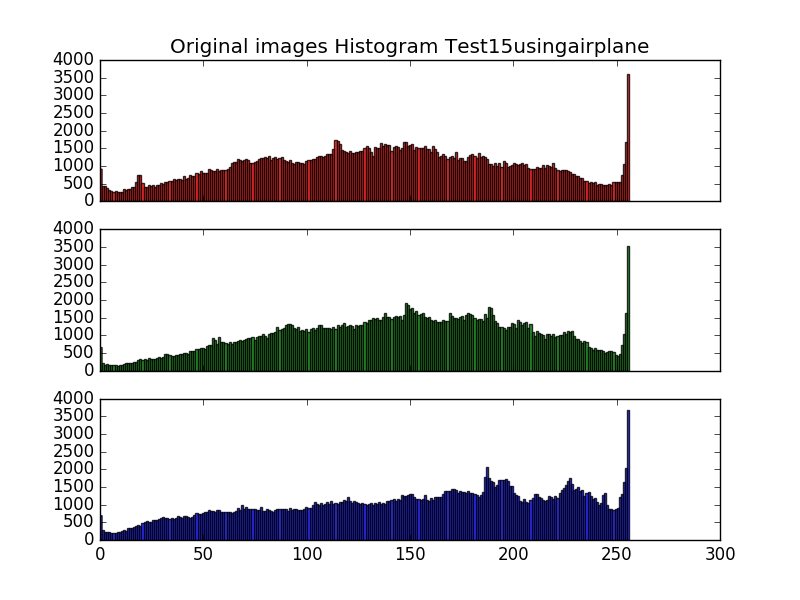
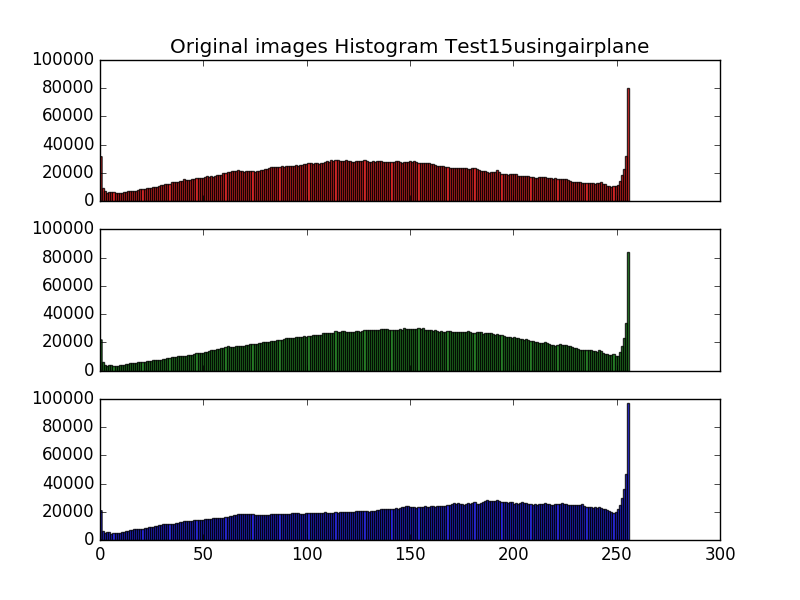
Fixed the code to run test 15 with every class

diff --git a/DCGAN-Colorizing/DCGAN_ColorizingNet_Cifar10.py b/DCGAN-Colorizing/DCGAN_ColorizingNet_Cifar10.py
@@ -38,8 +38,8 @@ numpy.random.seed(SEED)
 
 # Training Options
 BATCH_SIZE = 256
-EPOCH = 50
-nImages = pow(2,15)
+EPOCH = 1
+nImages = BATCH_SIZE#pow(2,15)
 
 #### CIFAR10 classifications
 cifar10_Classes = ['airplane','automobile','bird','cat','deer','dog','frog','horse','ship','truck'];
@@ -47,9 +47,9 @@ cifar10_Classes = ['airplane','automobile','bird','cat','deer','dog','frog','hor
 
 # Model Options
 folder = "Test15"
-outDir = 'results/'+folder
+outDire = 'results/'+folder
 
-
+d_predict_fake = 0
 
 ########################
 #FUNCTIONS
@@ -102,19 +102,20 @@ def plotGraph (filename, vecTrain, vecTest, nameVec):
 	plt.clf()
 
 class Logger(object):
-    def __init__(self):
-        self.terminal = sys.stdout
-        self.log = open(outDir+"/logfile.log", "a")
+	def __init__(self):
+		self.terminal = sys.stdout
+		self.log = open(outDir+"/logfile.log", "a")
 
-    def write(self, message):
-        self.terminal.write(message)
-        self.log.write(message)
+	def write(self, message):
+		self.terminal.write(message)
+		self.log.write(message)
 
-    def flush(self):
+
+	def flush(self):
         #this flush method is needed for python 3 compatibility.
         #this handles the flush command by doing nothing.
         #you might want to specify some extra behavior here.
-        pass
+		pass
 
 def save3images(inp,out,original,folder):
 	for i in range(math.floor(original.shape[0]*0.02)):
@@ -139,7 +140,7 @@ def save3images(inp,out,original,folder):
 
 		plt.savefig(outDir+'/samples/epoch'+str(folder)+'/sample_%s.png'%i)
 		plt.clf()
-def plotHistogram(originalImage,fakeImage, nameClass,directory = outDir,folder=folder):
+def plotHistogram(originalImage,fakeImage, nameClass,directory,folder=folder):
 	# Faz 3 histogramas, um para azul outro verde e outro vermelho
 	name = folder+'using'+nameClass
 	originalImage *= 255
@@ -158,58 +159,47 @@ def plotHistogram(originalImage,fakeImage, nameClass,directory = outDir,folder=f
 			originalGreen2D = numpy.vstack([originalGreen2D,originalImage[i,1,:,:]])
 			originalBlue2D = numpy.vstack([originalBlue2D,originalImage[i,2,:,:]])
 
-	#originalRed = originalImage[:,0,:,:].reshape(originalImage.shape[0],originalImage.shape[2],originalImage.shape[3])
-	#originalRed = numpy.array(originalRed)
-	#originalRed2D = numpy.transpose(originalRed,(0,2,1).reshape(originalImage.shape[0]*originalImage.shape[3],originalImage.shape[2]))
-	#originalGreen = originalImage[:,1,:,:].reshape(originalImage.shape[0],originalImage.shape[2],originalImage.shape[3])
-	#originalGreen = numpy.array(originalGreen)
-	#originalGreen2D = numpy.transpose(originalGreen,(0,2,1).reshape(originalImage.shape[0]*originalImage.shape[3],originalImage.shape[2]))
-	#originalBlue = originalImage[:,2,:,:].reshape(originalImage.shape[0],originalImage.shape[2],originalImage.shape[3])
-	#originalBlue2D = numpy.transpose(originalBlue,(0,2,1).reshape(originalImage.shape[0]*originalImage.shape[3],originalImage.shape[2]))
-
 	fO, (ax1,ax2,ax3) = plt.subplots(3, sharex=True,sharey=True)
-	ax1.hist(originalRed2D.ravel(), color='red', bins = numBins,alpha=0.8, range=(0,256))
+	ax1.hist(originalRed2D.ravel(), color='red', bins=numBins,alpha=0.8, align='mid')
 	ax1.set_title('Original images Histogram '+name)
-	ax2.hist(originalGreen2D.ravel(),color='green', bins = numBins,alpha=0.8, range=(0,256))
-	ax3.hist(originalBlue2D.ravel(),color='blue', bins = numBins,alpha=0.8, range=(0,256))
-	plt.savefig(directory+'/OriginalHist.png')
+	ax2.hist(originalGreen2D.ravel(),color='green', bins=numBins,alpha=0.8, align='mid')
+	ax3.hist(originalBlue2D.ravel(),color='blue', bins=numBins,alpha=0.8,  align='mid')
+	plt.xlim(0,256)
+	plt.savefig(directory+'/histOriginal.png')
 	plt.clf()
 
 
-	for i in range(fakeImage.shape[0]):
-		if i == 0:
-			generatedRed2D = numpy.array(fakeImage[i,0,:,:])
-			generatedGreen2D = numpy.array(fakeImage[i,1,:,:])
-			generatedBlue2D = numpy.array(fakeImage[i,2,:,:])
+	for j in range(fakeImage.shape[0]):
+		if j == 0:
+			generatedRed2D = numpy.array(fakeImage[j,0,:,:])
+			generatedGreen2D = numpy.array(fakeImage[j,1,:,:])
+			generatedBlue2D = numpy.array(fakeImage[j,2,:,:])
 		else:
-			generatedRed2D = numpy.vstack([generatedRed2D,fakeImage[i,0,:,:]])
-			generatedGreen2D = numpy.vstack([generatedGreen2D,fakeImage[i,1,:,:]])
-			generatedBlue2D = numpy.vstack([generatedBlue2D,fakeImage[i,2,:,:]])
-	#generatedRed = fakeImage[:,0,:,:].reshape(fakeImage.shape[0],fakeImage.shape[2],fakeImage.shape[3])
-	#generatedRed2D = numpy.transpose(generatedRed,(0,2,1).reshape(fakeImage.shape[0]*fakeImage.shape[3],fakeImage.shape[2]))
-	#generatedGreen = fakeImage[:,1,:,:].reshape(fakeImage.shape[0],fakeImage.shape[2],fakeImage.shape[3])
-	#generatedGreen2D = numpy.transpose(generatedGreen,(0,2,1).reshape(fakeImage.shape[0]*fakeImage.shape[3],fakeImage.shape[2]))
-	#generatedBlue = fakeImage[:,2,:,:].reshape(fakeImage.shape[0],fakeImage.shape[2],fakeImage.shape[3])
-	#generatedBlue2D = numpy.transpose(generatedBlue,(0,2,1).reshape(fakeImage.shape[0]*fakeImage.shape[3],fakeImage.shape[2]))
+			generatedRed2D = numpy.vstack([generatedRed2D,fakeImage[j,0,:,:]])
+			generatedGreen2D = numpy.vstack([generatedGreen2D,fakeImage[j,1,:,:]])
+			generatedBlue2D = numpy.vstack([generatedBlue2D,fakeImage[j,2,:,:]])
+
 
 	fO, (ax1,ax2,ax3) = plt.subplots(3, sharex=True,sharey=True)
-	ax1.hist(generatedRed2D.ravel(),color='red', bins = numBins,alpha=0.8, range=(0,256))
+	ax1.hist(generatedRed2D.ravel(),color='red', bins=numBins,alpha=0.8, align='mid')
 	ax1.set_title('Generated images Histogram '+name)
-	ax2.hist(generatedGreen2D.ravel(),color='green', bins = numBins,alpha=0.8, range=(0,256))
-	ax3.hist(generatedBlue2D.ravel(),color='blue', bins = numBins,alpha=0.8, range=(0,256))
-	plt.savefig(directory+'/GeneratedHist.png')
+	ax2.hist(generatedGreen2D.ravel(),color='green',bins=numBins, alpha=0.8, align='mid')
+	ax3.hist(generatedBlue2D.ravel(),color='blue',bins=numBins, alpha=0.8, align='mid')
+	plt.xlim(0,256)
+	plt.savefig(directory+'/histGenerated.png')
 	plt.clf()
 
 
 ########################
 #PROGRAM
 ########################
-sys.stdout = Logger()
 for i in range(len(cifar10_Classes)):
 	chosen_Class = cifar10_Classes[i]
-	print('Training with dataset based on class - ',chosen_Class)
+	outDir = outDire+'_'+str(chosen_Class)
 	# Create folder for tests
-	mkdir_p(outDir+'_'+str(chosen_Class))
+	mkdir_p(outDir)
+	sys.stdout = Logger()
+
 	# Logger
 	#### load cifar10 dataset
 	(Y,labels),(Y_test, labels_test) = cifar10.load_data()
@@ -248,6 +238,8 @@ for i in range(len(cifar10_Classes)):
 
 	#### Models
 	print("----------------------------------")
+	print('Training with dataset based on class - ',chosen_Class)
+
 	# GENERATOR
 	def generator_model():
 		model = Sequential()
@@ -304,7 +296,7 @@ for i in range(len(cifar10_Classes)):
 	#discriminator.load_weights("results/Test12/discriminator_weights")
 	generator = generator_model()
 	# LOADING GENERATOR FROM TEST8
-	generator.load_weights("results/Test8/generator_weights")
+	#generator.load_weights("results/Test8/generator_weights")
 	discriminator_on_generator = generator_containing_discriminator(generator,discriminator)
 	# Optimizer
 	adam=Adam(lr=0.0002, beta_1=0.5, beta_2=0.999, epsilon=1e-08)
@@ -343,7 +335,7 @@ for i in range(len(cifar10_Classes)):
 
 			#print("Training discriminator...")
 	        # Does not train discriminator if it is close to overfitting
-			if d_acc > 0.95:
+			if (d_acc > 0.95) :
 				discriminator.trainable = False
 			else:
 				discriminator.trainable = True
@@ -360,7 +352,8 @@ for i in range(len(cifar10_Classes)):
 		d_predict_real = discriminator.predict(image_batch)
 		print("DISCRIMINATOR_Imagem REAL=",d_predict_real[index])
 		g_predict_fake = generator.predict(BW_image_batch)
-		print("DISCRIMINATOR_Imagem FAKE=",discriminator.predict(g_predict_fake)[index])
+		d_predict_fake = discriminator.predict(g_predict_fake)[index]
+		print("DISCRIMINATOR_Imagem FAKE=",d_predict_fake)
 		print("GAN_Imagem FAKE=",discriminator_on_generator.predict(BW_image_batch)[index])
 
 		print("Saving weights...")
@@ -369,19 +362,29 @@ for i in range(len(cifar10_Classes)):
 		print("Saving sample images...")
 		save3images(BW_image_batch,generated_images,image_batch,epoch)
 		print("Storing to histogram values")
+		print(index)
 		if index == 0:
 			stored_g_predict = numpy.array(g_predict_fake)
 		else:
-			stored_g_predict = numpy.vstack(g_predict_fake)
+			stored_g_predict = numpy.vstack((stored_g_predict,g_predict_fake))
+		#try:
+	#		stored_g_predict = numpy.vstack(stored_g_predict,g_predict_fake)
+#		except NameError:
+#			stored_g_predict = numpy.array(g_predict_fake)
+
+		#print('g_predict_fake=',g_predict_fake.shape)
+
 		print("Elapsed time in epoch = ",str(timedelta(seconds=(time.time()-start_time))))
 		print("----------------------------------")
 
 
 
 	# Print important parameters to logfile.log and save histogram
+	#print('fakeImage=',stored_g_predict.shape)
+	#print('originalImage=',F.shape)
 	print('End of training')
 	print('Saving histograms')
-	plotHistogram(originalImage=F,fakeImage=stored_g_predict,nameClass = chosen_Class)
+	plotHistogram(originalImage=F,fakeImage=stored_g_predict,nameClass = chosen_Class, directory=outDir)
 	print("----------------------------------")
 
 	print('Total samples = ', G.shape[0], ' Batch size =', BATCH_SIZE, ' Epochs = ', EPOCH)
@@ -395,6 +398,6 @@ for i in range(len(cifar10_Classes)):
 	print("----------------------------------")
 	print("---GAN---")
 	print(discriminator_on_generator.summary())
-	print("----------------------------------")
+	#print("----------------------------------")
 
 	# eof
